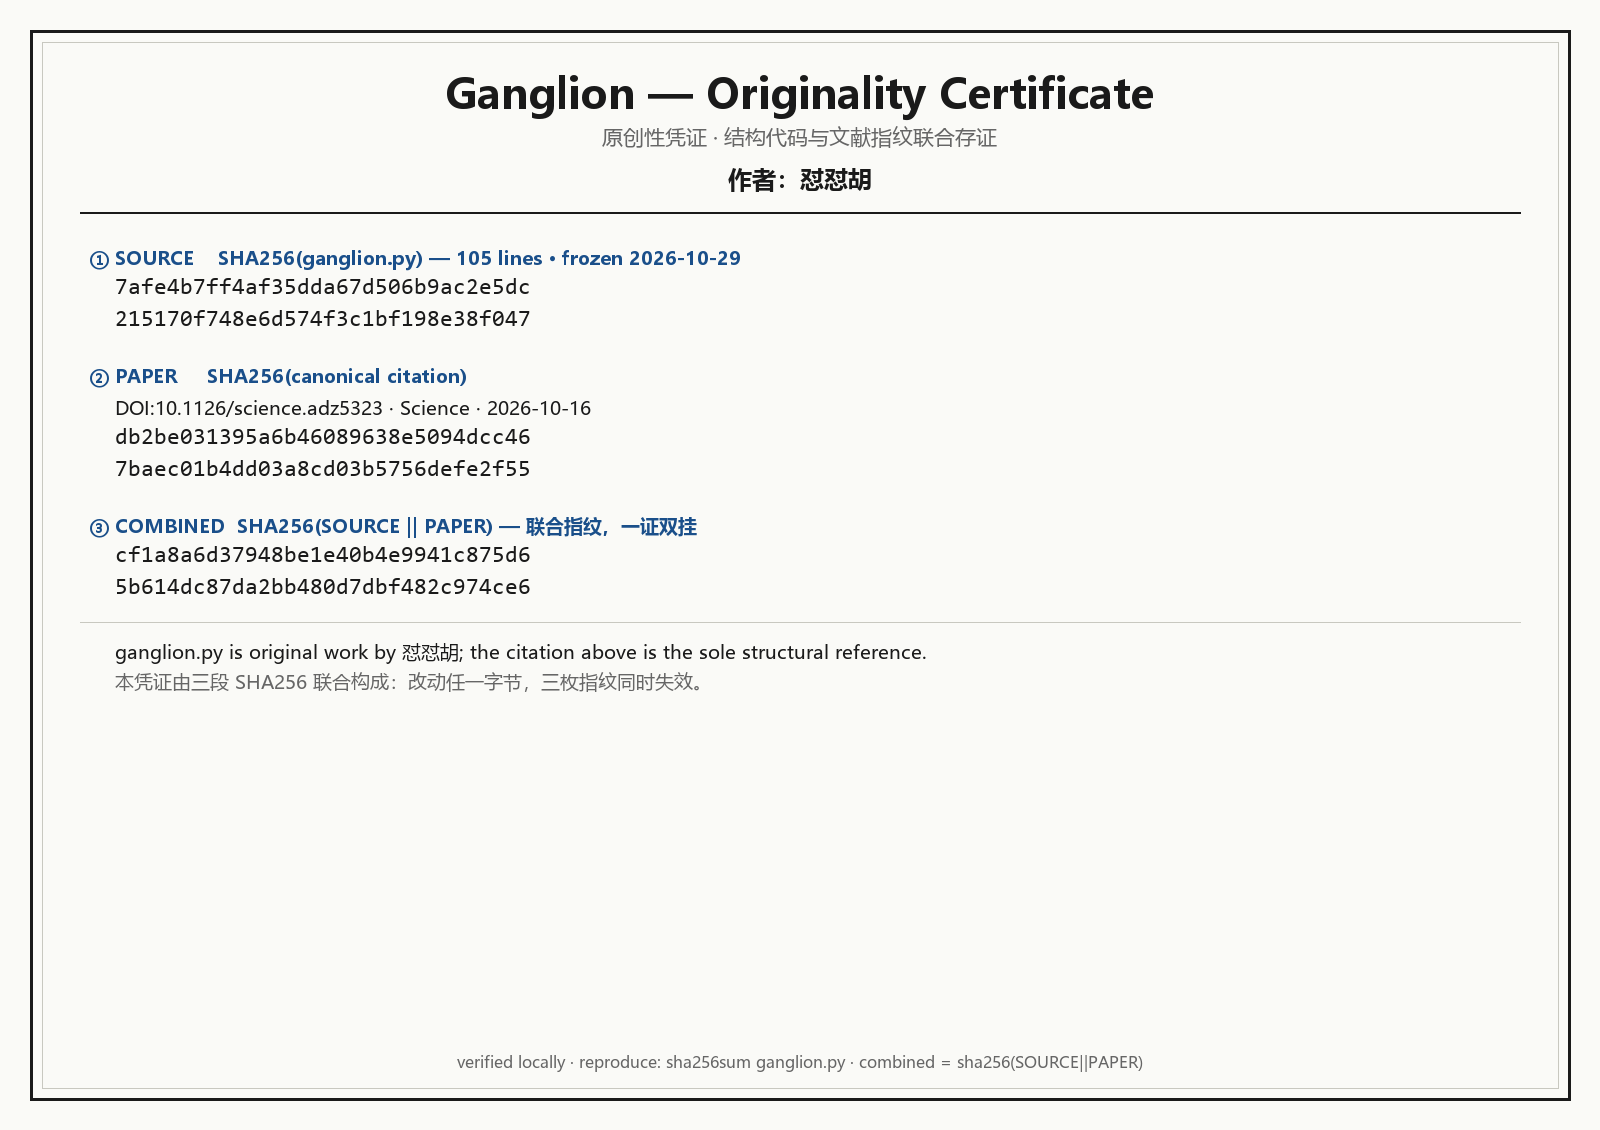
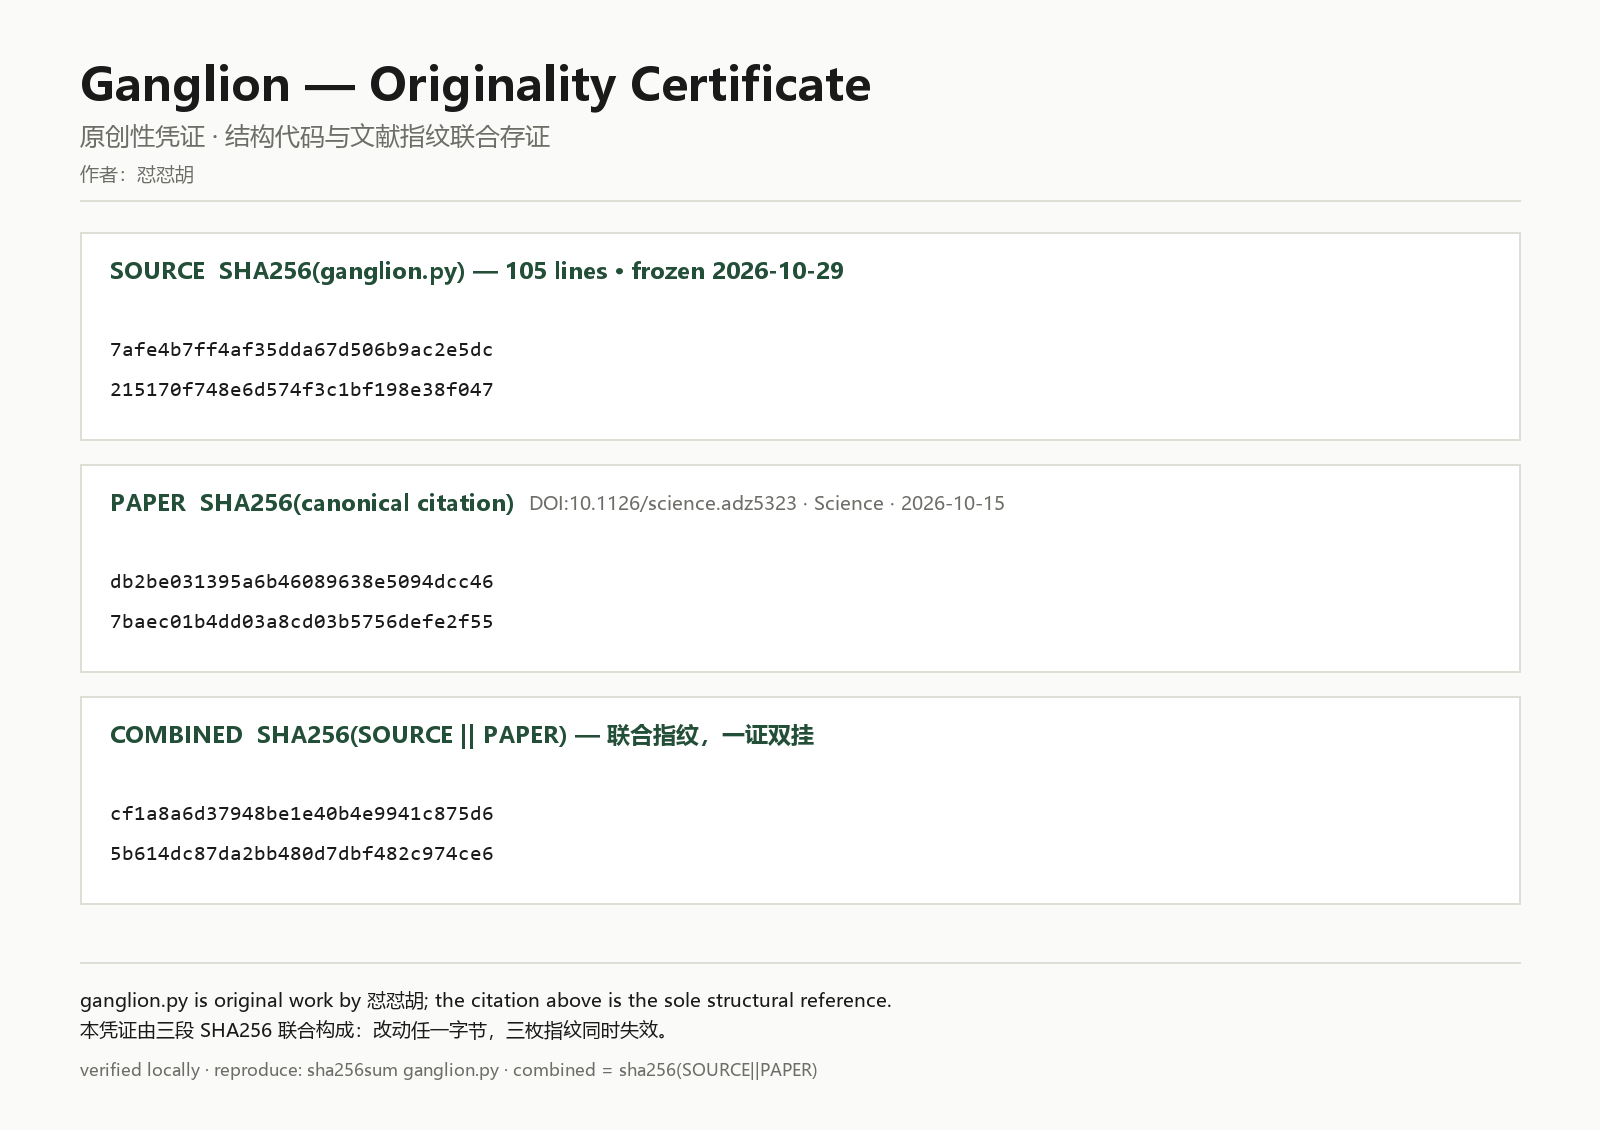
docs(evidence): 更正凭证图日期 10-16→10-15，补复算状态与认账；图改为可重出
- 图更正：图上 PAPER 日期误写 2026-10-16，Crossref 实为 published 2026-10-15。
  旧图 sha256 59d23bb7… 记录在 EVIDENCE.md，新图 7eec542d…（111,673 字节）。
  改日期不动任何指纹——三枚哈希与图的排版无关。
- 新增 evidence/render_certificate.py：参数写死、不读时间、不联网；连续两次运行
  输出字节完全一致（7eec542d…），图的生产方式从此可复算。
  起因：PAPER 那枚栽在"只记结果、不记对什么算的"，图不能再栽一次。
- EVIDENCE.md 补"三枚指纹的复算状态"，分别报：SOURCE 可复算 / COMBINED 可复算
  （输入是声明的 PAPER 串）/ PAPER 不可复算（四方独立尝试 477 种写法全空）。
- EVIDENCE.md 补 SWH visit#2：7da65f84…（2026-10-31T15:26:51Z），与 SWH API 核对一致。
- EVIDENCE.md 补"五、认账"：历史保留两份试用原文（含本机端口 2 处），当前文件树
  不含这两份，本版不删档、不改写；端口占位规矩从 0.2.0 之后生效。

diff --git a/evidence/render_certificate.py b/evidence/render_certificate.py
@@ -1,0 +1,130 @@
+#!/usr/bin/env python3
+# -*- coding: utf-8 -*-
+"""
+render_certificate.py — 重出「原创凭证 · 三段 SHA256 联合存证」图。
+
+设计约束（改动须同步更新 evidence/EVIDENCE.md）：
+  1. 输入参数全部写死在本文件顶部，不读环境、不读时间、不联网。
+  2. 不写入任何 PNG 元数据（无 tEXt / tIME），保证同一 PIL 版本下字节完全一致。
+  3. 运行后打印 sha256，与 EVIDENCE.md 里登记的新图哈希比对；对不上即为改动过。
+
+用法：
+    python evidence/render_certificate.py            # 输出到 evidence/ 下
+    python evidence/render_certificate.py --out x.png
+
+为什么要有这个文件：
+    PAPER 那枚指纹栽在「只记了结果、没记对什么算的」，从此不可复算。
+    图不能再栽一次——所以图的生产方式必须落盘、可重跑、可复算。
+"""
+
+import hashlib
+import os
+import sys
+
+from PIL import Image, ImageDraw, ImageFont
+
+# ── 写死的输入（不许改成运行时读取）────────────────────────────────
[3 lines of base64/hex data omitted]
+
+SOURCE_LABEL = "SHA256(ganglion.py) — 105 lines · frozen 2026-10-29"
+PAPER_LABEL = "SHA256(canonical citation)"
+PAPER_DETAIL = "DOI:10.1126/science.adz5323 · Science · 2026-10-15"  # 更正版：原图误写 10-16
+COMBINED_LABEL = "SHA256(SOURCE || PAPER) — 联合指纹，一证双挂"
+
+AUTHOR = "怼怼胡"
+CANVAS_W, CANVAS_H = 1600, 1130
+
+FONT_CN = r"C:/Windows/Fonts/msyh.ttc"
+FONT_CN_BD = r"C:/Windows/Fonts/msyhbd.ttc"
+FONT_MONO = r"C:/Windows/Fonts/consola.ttf"
+
+BG = (250, 250, 248)
+INK = (26, 26, 26)
+MUTED = (110, 110, 105)
+ACCENT = (35, 78, 55)
+CARD_BG = (255, 255, 255)
+CARD_LINE = (222, 222, 214)
+
+
+def hex_pairs(h):
+    """64 位十六进制 → 两行，便于人眼比对。"""
+    return h[:32], h[32:]
+
+
+def build(path):
+    img = Image.new("RGB", (CANVAS_W, CANVAS_H), BG)
+    d = ImageDraw.Draw(img)
+
+    f_title = ImageFont.truetype(FONT_CN_BD, 46)
+    f_sub = ImageFont.truetype(FONT_CN, 25)
+    f_small = ImageFont.truetype(FONT_CN, 19)
+    f_label = ImageFont.truetype(FONT_CN_BD, 23)
+    f_mono = ImageFont.truetype(FONT_MONO, 21)
+    f_foot = ImageFont.truetype(FONT_CN, 17)
+
+    m = 80
+
+    # 标题区
+    d.text((m, 52), "Ganglion — Originality Certificate", font=f_title, fill=INK)
+    d.text((m, 118), "原创性凭证 · 结构代码与文献指纹联合存证", font=f_sub, fill=MUTED)
+    d.text((m, 160), "作者：%s" % AUTHOR, font=f_small, fill=MUTED)
+    d.line([(m, 200), (CANVAS_W - m, 200)], fill=CARD_LINE, width=2)
+
+    # 三段卡片
+    blocks = [
+        ("①", "SOURCE", SOURCE_LABEL, None, SOURCE_HEX),
+        ("②", "PAPER", PAPER_LABEL, PAPER_DETAIL, PAPER_HEX),
+        ("③", "COMBINED", COMBINED_LABEL, None, COMBINED_HEX),
+    ]
+
+    y = 232
+    block_h = 232
+    for idx, tag, name, detail, hexv in blocks:
+        d.rectangle([m, y, CANVAS_W - m, y + block_h - 24], fill=CARD_BG, outline=CARD_LINE, width=2)
+        d.text((m + 30, y + 22), "%s  %s" % (tag, name), font=f_label, fill=ACCENT)
+        # 说明行：只在标题行尾追加 detail，正文不再重复
+        label_end = m + 30 + d.textlength("%s  %s  " % (tag, name), font=f_label)
+        if detail:
+            d.text((label_end, y + 25), detail, font=f_small, fill=MUTED)
+        line1 = hex_pairs(hexv)[0]
+        line2 = hex_pairs(hexv)[1]
+        d.text((m + 30, y + 108), line1, font=f_mono, fill=INK)
+        d.text((m + 30, y + 148), line2, font=f_mono, fill=INK)
+        y += block_h
+
+    # 声明
+    d.line([(m, 962), (CANVAS_W - m, 962)], fill=CARD_LINE, width=2)
+    d.text((m, 986),
+           "ganglion.py is original work by %s; the citation above is the sole structural reference." % AUTHOR,
+           font=f_small, fill=INK)
+    d.text((m, 1016),
+           "本凭证由三段 SHA256 联合构成：改动任一字节，三枚指纹同时失效。",
+           font=f_small, fill=INK)
+    d.text((m, 1058),
+           "verified locally · reproduce: sha256sum ganglion.py · combined = sha256(SOURCE||PAPER)",
+           font=f_foot, fill=MUTED)
+
+    img.save(path, format="PNG", optimize=False, compress_level=6)
+    return path
+
+
+def main():
+    out = os.path.join(os.path.dirname(os.path.abspath(__file__)), "原创凭证_指纹联合存证.png")
+    if "--out" in sys.argv:
+        out = sys.argv[sys.argv.index("--out") + 1]
+
+    if not os.path.exists(FONT_CN):
+        sys.exit("字体缺失：%s" % FONT_CN)
+
+    build(out)
+    raw = open(out, "rb").read()
+    print("输出 :", out)
+    print("字节 :", len(raw))
+    print("sha256:", hashlib.sha256(raw).hexdigest())
+    print("尺寸 : %dx%d" % (CANVAS_W, CANVAS_H))
+
+
+if __name__ == "__main__":
+    main()

diff --git a/evidence/EVIDENCE.md b/evidence/EVIDENCE.md
@@ -7,10 +7,21 @@
 | 段 | 内容 | 指纹 |
 |---|---|---|
[4 lines of base64/hex data omitted]
 
-凭证图：`evidence/原创凭证_指纹联合存证.png`（本地生成于 2026-10-29 20:53 CST）。
+凭证图：`evidence/原创凭证_指纹联合存证.png`。
+
+**图更正记录（旧版不删，两枚哈希并列，改了什么才可查）：**
+
+| 版本 | sha256 | 说明 |
+|---|---|---|
[2 lines of base64/hex data omitted]
+
+**改日期不动任何指纹**：三枚哈希的值与图的排版无关。旧图仍在 SWH 存档里，永远取得回来——这正是"只追加、不抹掉"的做法。
+
+生成方式见 `evidence/render_certificate.py`（参数写死，可重出同一张图、复算出同一枚哈希）。
 
 **改动任一字节，三枚指纹同时失效。** 复现：
 
@@ -21,6 +32,16 @@ python -c "import hashlib;a='<SOURCE>';b='<PAPER>';print(hashlib.sha256((a+b).en
 
 > 注意拼接规则：**十六进制字符串直接相连**，不是字节相连、也不是换行相连（后两者算出的值不同，已实测）。
 
+### 三枚指纹的复算状态（分别报，不许合并成一句"已通过"）
+
+| 段 | 能否复算 | 依据 |
+|---|---|---|
+| SOURCE | ✅ **可复算** | `sha256sum ganglion.py` = `7afe4b7f…38f047`，105 行 / 3804 字节，2026-11-01 实算复核 |
+| COMBINED | ✅ **可复算** | 但输入是**声明的 PAPER 十六进制串**，不是论文本身；方法自洽，地基是下面这一环 |
+| PAPER | ❌ **不可复算** | 输入原件未随仓库保存。四方独立尝试合计 **8 + 94 + 299 + 76 = 477 种**写法（DOI 各形态、标题、日期、换行、UTF-16、组合顺序），0 命中 |
+
+**PAPER 这一环的性质**：它是引用标记，不是原创证明。对第三方论文取哈希，对"谁先做出来"零贡献——论文 published 在前，绑它进来只增加噪音。本版不改它的值（改值 → COMBINED 变 → 图作废 → 与 SWH 存档对不上），**如实标注，等下一版换层时再解耦**。
+
 ## 二、时间锚（由弱到强）
 
 | 层级 | 凭据 | 时间 | 强度 |
@@ -29,7 +50,8 @@ python -c "import hashlib;a='<SOURCE>';b='<PAPER>';print(hashlib.sha256((a+b).en
 | 2 | git 首次提交 `0a6a6f6`（后打 tag `v0-original`） | 2026-10-30 13:36 CST | 中：提交时间可写，但 GitHub 服务端有到达时间 |
 | 3 | 存证邮件（服务器记录送达时间） | 2026-10-31 22:19:37 CST | 中强：本机改不了，但服务器仍是第三方托管 |
 | 4 | **仓库公开**（本人账号，非他人代推） | 2026-10-30 14:21 CST（建仓即公开，匿名可拉） | 强：时间由 GitHub 服务端记录，外人无需登录即可复核 |
-| 5 | **Software Heritage 独立存档**（`swh:1:snp:a5637091d4591444e6f8b02964364e38bce531df`） | 2026-10-31 23:24:28 CST（`2026-10-31T15:24:28Z`） | 最强：第三方独立副本，连 GitHub 删库也不影响 |
+| 5 | **Software Heritage 独立存档** · visit#1（`swh:1:snp:a5637091d4591444e6f8b02964364e38bce531df`） | 2026-10-31 23:24:28 CST（`2026-10-31T15:24:28Z`） | 最强：第三方独立副本，连 GitHub 删库也不影响 |
+| 5b | **同 · visit#2**（`swh:1:snp:7da65f84c7ea9c302217924b28cd0094758f49ae`） | 2026-10-31 23:26:51 CST（`2026-10-31T15:26:51Z`） | 同上；比 visit#1 晚 2 分 23 秒，抓的是当时的 `main` 头 |
 
 **老实说**：第 1 层证明不了时间，只证明这份图与这份源码对得上；第 2 层能证明"什么时候进的仓库"；第 3 层能证明"什么时候发出去的"；第 4 层（仓库公开）从 2026-10-30 建仓那天就成立，且必须由本人账号公开——别人代推的公开库会把作者和时间记在别人名下；第 5 层（独立存档）2026-10-31 已完成，抓取状态 `full`。
 
@@ -68,3 +90,18 @@ python -c "import hashlib;a='<SOURCE>';b='<PAPER>';print(hashlib.sha256((a+b).en
 - 浏览：https://archive.softwareheritage.org/browse/origin/?origin_url=https%3A%2F%2Fgithub.com%2Fhuv0310-arch%2Fganglion
 
 这层的分量：**即使 GitHub 上的仓库被删、被改、被转移，这份副本仍在第三方服务器上，按那个时间的状态存在。** 前四层都挂在 GitHub 身上，只有这层不挂。
+
+## 五、认账（本版不删档、不改写）
+
+本仓库历史中保留两份外部试用记录原文，它们**不在当前文件树里**（`c4e3b66` 已从工作区移除），只活在历史提交中：
+
+- `c6947bd` / `9d78245` → `docs/TRIAL_XIAOPAI_2026-10-31.md`（66 行，含本机端口 2 处）
+- `5c6617b` / `1dfc920` / `ac44871` → `docs/TRIAL_AZHUA_2026-10-31.md`（112 行）
+
+处置：**认账留档，不改写历史、不假装抹掉。** 理由三条：
+
+1. 那段历史已经公开，改写只会与 SWH 存档对不上，反而留下"被人动过"的痕迹；
+2. 那两份记录是**唯一的外部试用证据**（真机、真工单、抓到 3 处静默脏账），砍掉它等于砍掉最值钱的部分；
+3. 端口信息对外价值接近零——ganglion 是库不是服务，知道端口也连不上。
+
+**规矩从这里往前生效**：0.2.0 之后的版本，端口一律写 `<PORT>` 占位；临时脚本用 `_probe` / `_tmp` / `_scratch` 前缀先进 `.gitignore`，不靠"事后删"。发布前扫描的对象是 `git log --all -p`（全历史），不是工作区。
